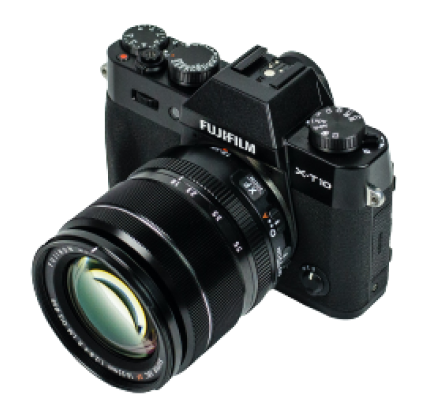
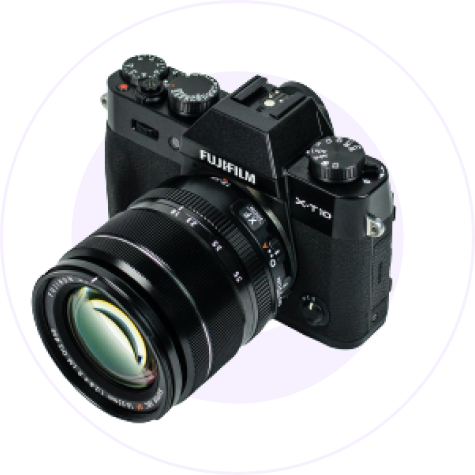
Influncer Section done

Changed region(s): [[0.0591, 0.058, 0.9159, 0.9565]]

diff --git a/css/style.css b/css/style.css
@@ -18,8 +18,7 @@ main {
 
 
 .container {
-    margin-right: 80px;
-    margin-left: 80px;
+    margin: 80px 80px 0px 80px;
 }
 
 /* Header Style */
@@ -28,13 +27,77 @@ nav {
     justify-content: space-between;
 }
 
+.top-space {
+    margin: 0;
+    font-size: 26px;
+    font-weight: 700;
+    color: #3a3a3a;
+}
+
 nav a {
     text-decoration: none;
-    color: black;
-    font-size: 1.5em;
+    color: #3a3a3a;
+    font-size: 16;
+    font-weight: 600;
     margin-right: 15px;
 }
 
-.top-space {
-    margin: 0;
+
+/* Influencer Journey Section Style */
+.influencer-journey-section {
+    display: flex;
+    justify-content: space-around;
+
+
+
+}
+
+.half-width {
+    width: 50%;
+}
+
+.influencer-title {
+    font-size: 52px;
+    color: #3a3a3a;
+    line-height: 40px;
+
+}
+
+#span-color {
+
+    color: #FF5959;
+}
+
+p {
+    font-size: 18px;
+    color: #3a3a3a;
+    text-align: justify;
+    line-height: 28px;
+    padding-bottom: 30px;
+}
+
+
+.half-width img {
+    width: 70%;
+    margin-left: 25%;
+
+}
+
+.button {
+    text-decoration: none;
+    background-color: #E02C6D;
+    padding: 10px 24px;
+    color: white;
+    font-weight: 500;
+    border-radius: 41px;
+
+}
+
+a .text-size {
+    font-size: 16px;
+}
+
+.space-left {
+    margin-left: 15px;
+    font-size: 12px;
 }

diff --git a/index.html b/index.html
@@ -30,5 +30,25 @@
         </nav>
     </header>
     <!-- Header End -->
+    
+    <main>
+         <!-- Influence Journey Section Part start -->
+        <section class="container">
+            <div class="influencer-journey-section">
+                <div class="half-width">
+                    <div class="influencer-title">
+                        <h1>Start your Journey as</h1>
+                        <h1> <span id="span-color">Influencer</span></h1>
+                    </div>
+                     
+                    <p>Influencer marketing is all about finding out the right influencers who are brand safe and has your desired audience demographics. We have been in the influencer marketing industry for 3 years and have been constantly searching for the best influencer marketing tools. And, we have successfully found one that could at least give us some insights on the influencers that we were looking for.</p>
+                    <a class="button text-size" target="_blank" href="#">Preebook now<i class="fas fa-arrow-right space-left"></i></a>
+                </div>
+                <div class="half-width">
+                    <img src="images/main-camera.png" alt="">
+                </div>
+            </div>
+        </section>
+    </main>
 </body>
 </html>
